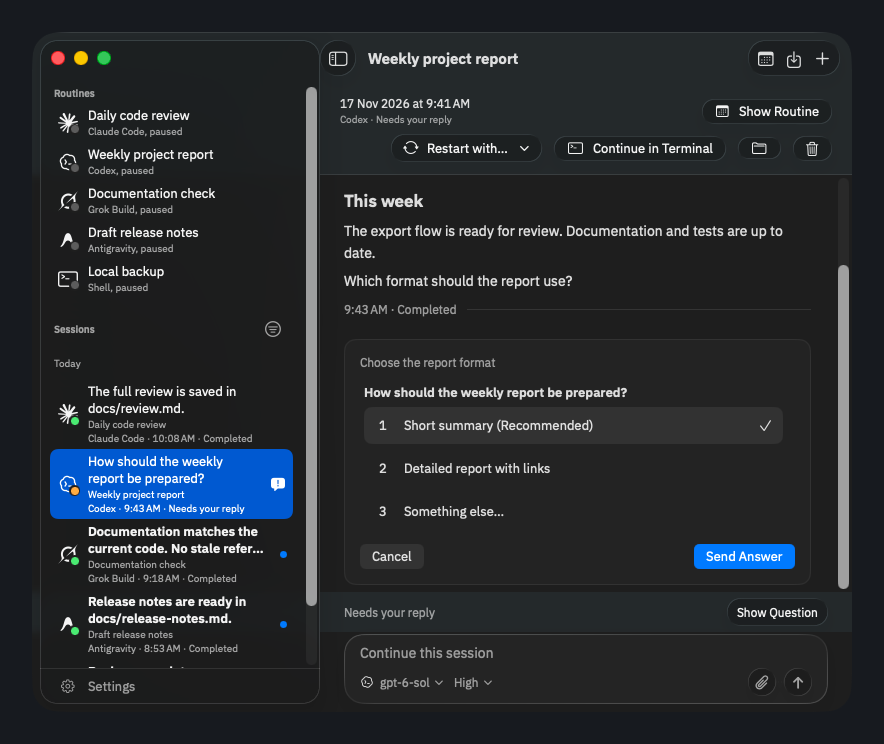
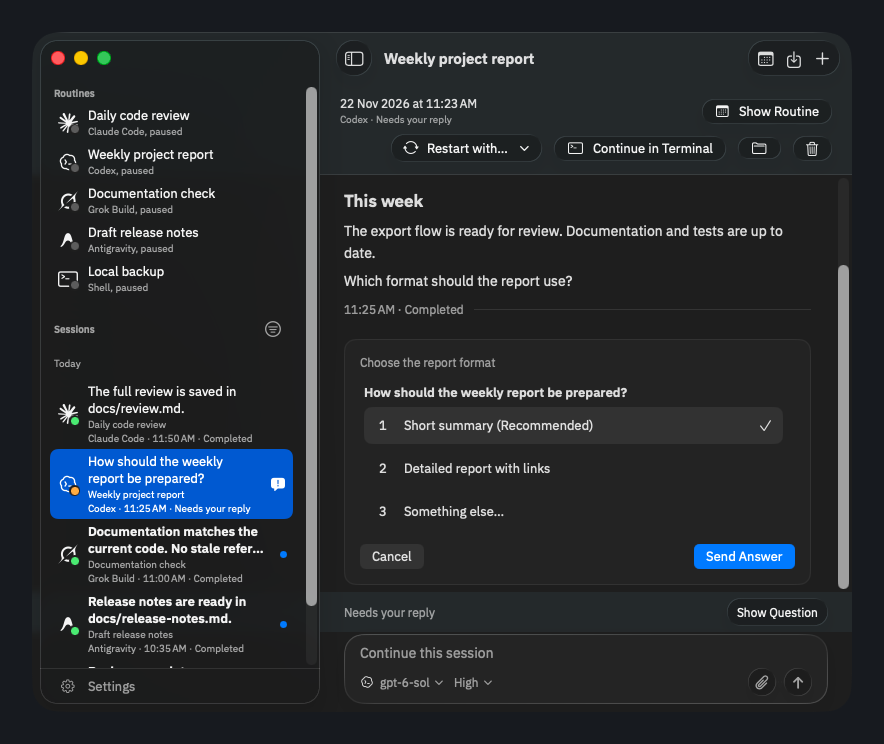
Fix spacing between the sidebar and its toggle

diff --git a/Sources/Rota/MainWindow.swift b/Sources/Rota/MainWindow.swift
@@ -20,7 +20,7 @@ struct MainWindow: View {
     @Environment(\.interfaceScale) private var metrics
     @Environment(AppModel.self) private var model
 
-    @State private var sidebarWidth: CGFloat = 280
+    @State private var sidebarTrailingEdge: CGFloat = 280
     // Seed the ideal once; later measurements save the next launch's preference.
     @State private var restoredSidebarWidth = UserDefaults.standard.object(forKey: "sidebarWidth") as? Double ?? 280
 
@@ -59,8 +59,12 @@ struct MainWindow: View {
                     }
                 }
             }
-            .onGeometryChange(for: CGFloat.self) { $0.size.width } action: { width in
-                sidebarWidth = width
+            .onGeometryChange(for: ClosedRange<CGFloat>.self) { geometry in
+                let frame = geometry.frame(in: .global)
+                return frame.minX...frame.maxX
+            } action: { horizontalExtent in
+                sidebarTrailingEdge = horizontalExtent.upperBound
+                let width = horizontalExtent.upperBound - horizontalExtent.lowerBound
                 if model.sidebarShown, width >= min(metrics.points(240), 280) {
                     UserDefaults.standard.set(Double(width), forKey: "sidebarWidth")
                 }
@@ -81,7 +85,8 @@ struct MainWindow: View {
             detail(records)
         }
         .background(WindowToolbarOverlay(
-            content: AnyView(MainWindowToolbar(title: title, sidebarWidth: model.sidebarShown ? sidebarWidth : 0,
+            content: AnyView(MainWindowToolbar(title: title,
+                                              sidebarTrailingEdge: model.sidebarShown ? sidebarTrailingEdge : nil,
                                               toggleSidebar: { model.sidebarVisible.toggle() },
                                               importRoutines: { model.presentingImport = true },
                                               newRoutine: { model.presentingNew = true },

diff --git a/Sources/Rota/MainWindowToolbar.swift b/Sources/Rota/MainWindowToolbar.swift
@@ -5,7 +5,7 @@ import SwiftUI
 struct MainWindowToolbar: View {
     @Environment(\.interfaceScale) private var metrics
     let title: String
-    let sidebarWidth: CGFloat
+    let sidebarTrailingEdge: CGFloat?
     let toggleSidebar: () -> Void
     let importRoutines: () -> Void
     let newRoutine: () -> Void
@@ -13,14 +13,16 @@ struct MainWindowToolbar: View {
     /// Settings keeps its sections in the sidebar: it dims the toggle and hides the routine actions.
     let showsActions: Bool
 
+    private var sidebarShown: Bool { sidebarTrailingEdge != nil }
+
     var body: some View {
         HStack(spacing: metrics.points(12)) {
             Button(action: toggleSidebar) {
-                symbol("sidebar.left", title: sidebarWidth > 0 ? "Hide Sidebar" : "Show Sidebar")
+                symbol("sidebar.left", title: sidebarShown ? "Hide Sidebar" : "Show Sidebar")
                     .frame(width: metrics.points(36), height: metrics.points(36))
                     .background { glass(in: Circle()) }
             }
-            .help("\(sidebarWidth > 0 ? "Hide" : "Show") the sidebar (Control-Command-S)")
+            .help("\(sidebarShown ? "Hide" : "Show") the sidebar (Control-Command-S)")
             // Dimmed rather than removed, so the title keeps its place.
             .disabled(!showsActions)
             .accessibilityIdentifier("toggleSidebar")
@@ -38,7 +40,7 @@ struct MainWindowToolbar: View {
         .buttonStyle(.plain)
         // SwiftUI would otherwise pick these as Tab targets; see ToolbarHostingView.
         .focusable(false)
-        .padding(.leading, sidebarWidth > 0 ? sidebarWidth + metrics.points(8) : 96)
+        .padding(.leading, sidebarTrailingEdge.map { $0 + metrics.points(16) } ?? 96)
         .padding(.trailing, metrics.points(12))
         .frame(maxWidth: .infinity, maxHeight: .infinity)
     }

diff --git a/Tests/WindowToolbarOverlayTests.swift b/Tests/WindowToolbarOverlayTests.swift
@@ -61,7 +61,7 @@ final class WindowToolbarOverlayTests: XCTestCase {
         let anchor = ToolbarOverlayAnchor(frame: .zero)
         anchor.height = 78
         anchor.title = "Example"
-        anchor.host.rootView = AnyView(MainWindowToolbar(title: "Example", sidebarWidth: 280,
+        anchor.host.rootView = AnyView(MainWindowToolbar(title: "Example", sidebarTrailingEdge: 280,
                                                        toggleSidebar: {}, importRoutines: {}, newRoutine: {},
                                                        schedule: .init(shown: false, available: true, toggle: {}),
                                                        showsActions: true)
@@ -96,7 +96,7 @@ final class WindowToolbarOverlayTests: XCTestCase {
         .background {
             if showToolbar {
                 WindowToolbarOverlay(content: AnyView(MainWindowToolbar(
-                    title: title, sidebarWidth: 280,
+                    title: title, sidebarTrailingEdge: 280,
                     toggleSidebar: {}, importRoutines: {}, newRoutine: {},
                     schedule: .init(shown: false, available: true, toggle: {}), showsActions: true
                 ).environment(\.interfaceScale, InterfaceScale(factor: height / 52))), height: height, title: title)

diff --git a/scripts/tests/test_ui_preparation.py b/scripts/tests/test_ui_preparation.py
@@ -126,23 +126,29 @@ class PreparationTests(unittest.TestCase):
         self.assertEqual([item["--phase"] for item in question_phases], ["actions", "renders"])
         self.assertEqual({item["--appearance"] for item in question_phases}, {"light", "dark"})
 
-    def test_toolbar_placement_uses_column_width_without_outline_inset(self):
+    def test_toolbar_leaves_a_scaled_gap_after_the_sidebar_outline(self):
         source = (Path(__file__).resolve().parents[1] / "ui-check.sh").read_text()
         body = source.split('if python3 - "$normal_bar"', 1)[1].split("<<'PYTHON'\n", 1)[1].split("\nPYTHON", 1)[0]
         rectangles = [
-            [100, 100, 1000, 52], [388, 108, 36, 36], [996, 108, 92, 36],
-            [436, 117, 40, 18], [108, 152, 280, 500],
-            [100, 100, 1000, 78], [392, 112, 54, 54], [944, 112, 138, 54],
-            [464, 125.5, 60, 27], [108, 178, 280, 450],
+            [100, 100, 1000, 52], [404, 108, 36, 36], [996, 108, 92, 36],
+            [452, 117, 40, 18], [108, 152, 280, 500],
+            [100, 100, 1000, 78], [412, 112, 54, 54], [944, 112, 138, 54],
+            [484, 125.5, 60, 27], [108, 178, 280, 450],
         ]
 
-        def verify():
-            arguments = [" ".join(map(str, rect)) for rect in rectangles]
+        def verify(bounds):
+            arguments = [" ".join(map(str, rect)) for rect in bounds]
             return subprocess.run([sys.executable, "-c", body, *arguments], capture_output=True, text=True)
 
-        self.assertEqual(verify().returncode, 0)
-        rectangles[1][0] += 8
-        self.assertNotEqual(verify().returncode, 0)
+        result = verify(rectangles)
+        self.assertEqual(result.returncode, 0, result.stderr)
+        for toggle, old_x in [(1, 388), (6, 392)]:
+            with self.subTest(toggle=toggle):
+                old_bounds = rectangles.copy()
+                old_bounds[toggle] = [old_x, *rectangles[toggle][1:]]
+                result = verify(old_bounds)
+                self.assertNotEqual(result.returncode, 0)
+                self.assertIn("sidebar to toolbar gap", result.stderr)
 
     def test_wait_value_retries_an_element_replaced_during_transition(self):
         root = Path(self.temporary.name)

diff --git a/docs/ui-checks.md b/docs/ui-checks.md
@@ -81,8 +81,9 @@ only a successful value read can satisfy the wait, including an expected empty v
 `focused` checks the focused element and its ancestors. Keyboard focus moved into the
 multi-line message field reports an editor without the field's identifier, so prove
 that move by typing (`key z`, then the field's value) rather than with `focused composer`.
-Toolbar placement uses the measured sidebar width from the toolbar's origin;
-the floating sidebar's AX outline can have an independent inset origin.
+The toolbar check measures the gap from the sidebar outline's trailing edge to
+the toggle. Both frames use screen coordinates, so the floating sidebar's inset
+origin is included in the check.
 An `AXSheet` is a separate window boundary: it may extend past its presenter.
 The layout gate checks its frame against the screen and its controls against
 the sheet and their own containers.

diff --git a/docs/architecture.md b/docs/architecture.md
@@ -960,7 +960,7 @@ and the panel retains its 340 pt width while content reflows. Its footer moves
 whole actions to two rows when they no longer fit. Import caps its height at
 500 pt so its action row remains inside the minimum-height window. System-owned menus,
 window chrome and file dialogs retain their native size. Preserve the original
-main-toolbar presentation: navigation and title start beside the actual sidebar,
+main-toolbar presentation: navigation and title start after the sidebar's measured trailing edge,
 with the import/new action pair at the trailing edge; Settings hides that pair.
 `MainWindowToolbar` scales symbols, type, glass shapes and spacing in logical
 points. Its circular surface is 36 pt, the two-action capsule 64 x 36 pt, and the
